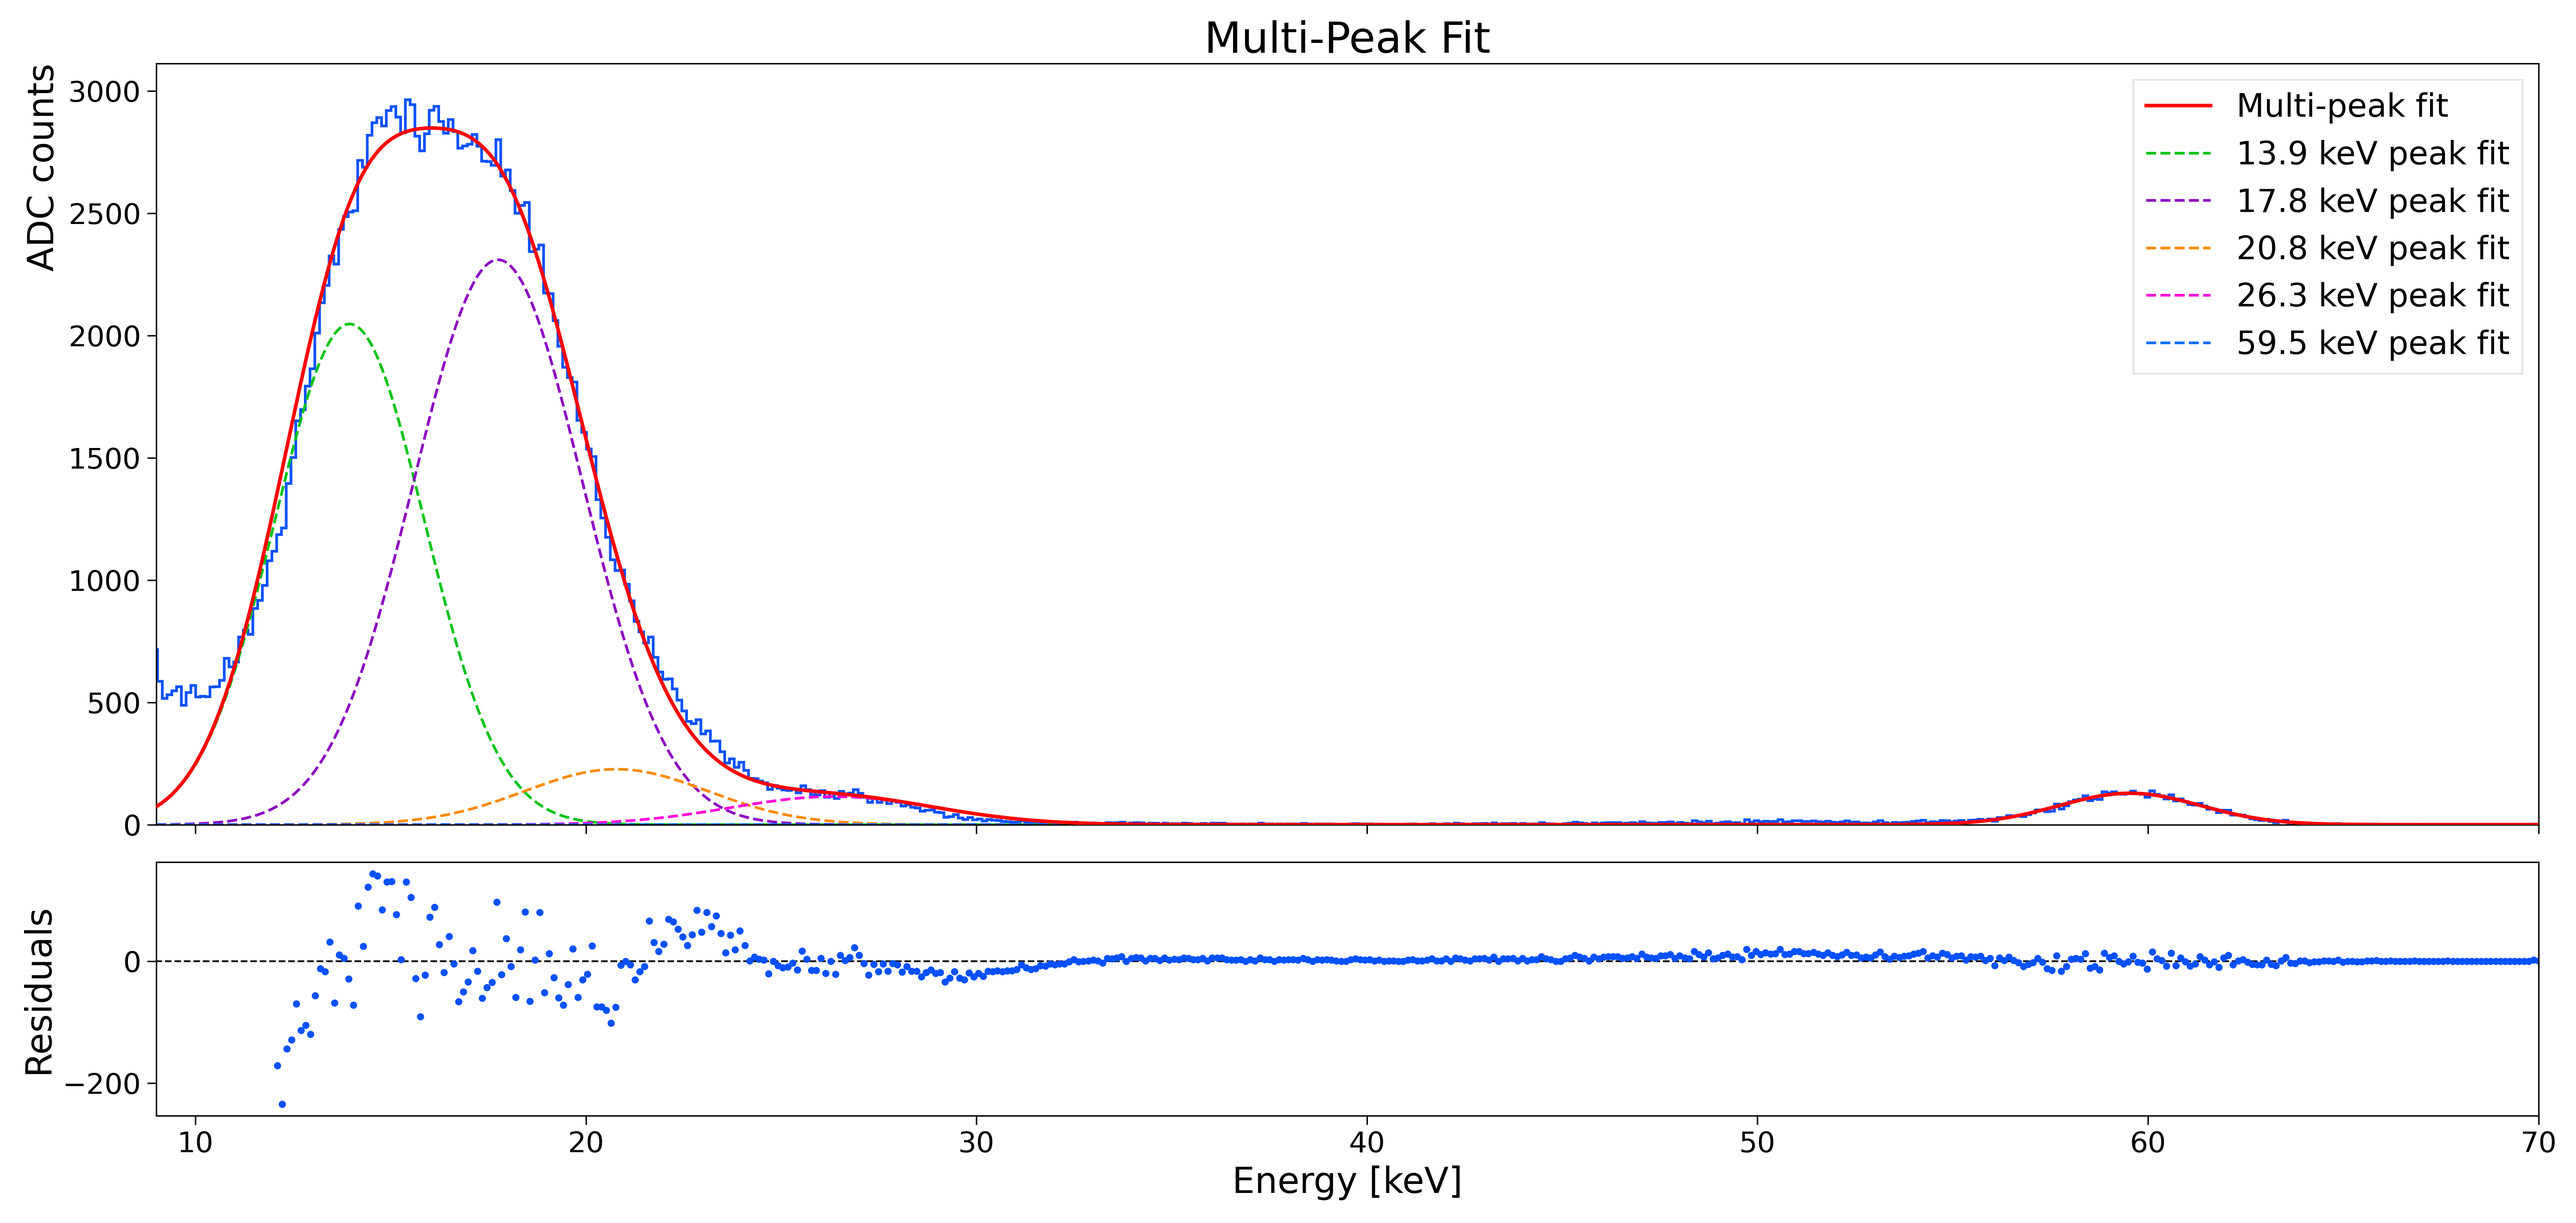
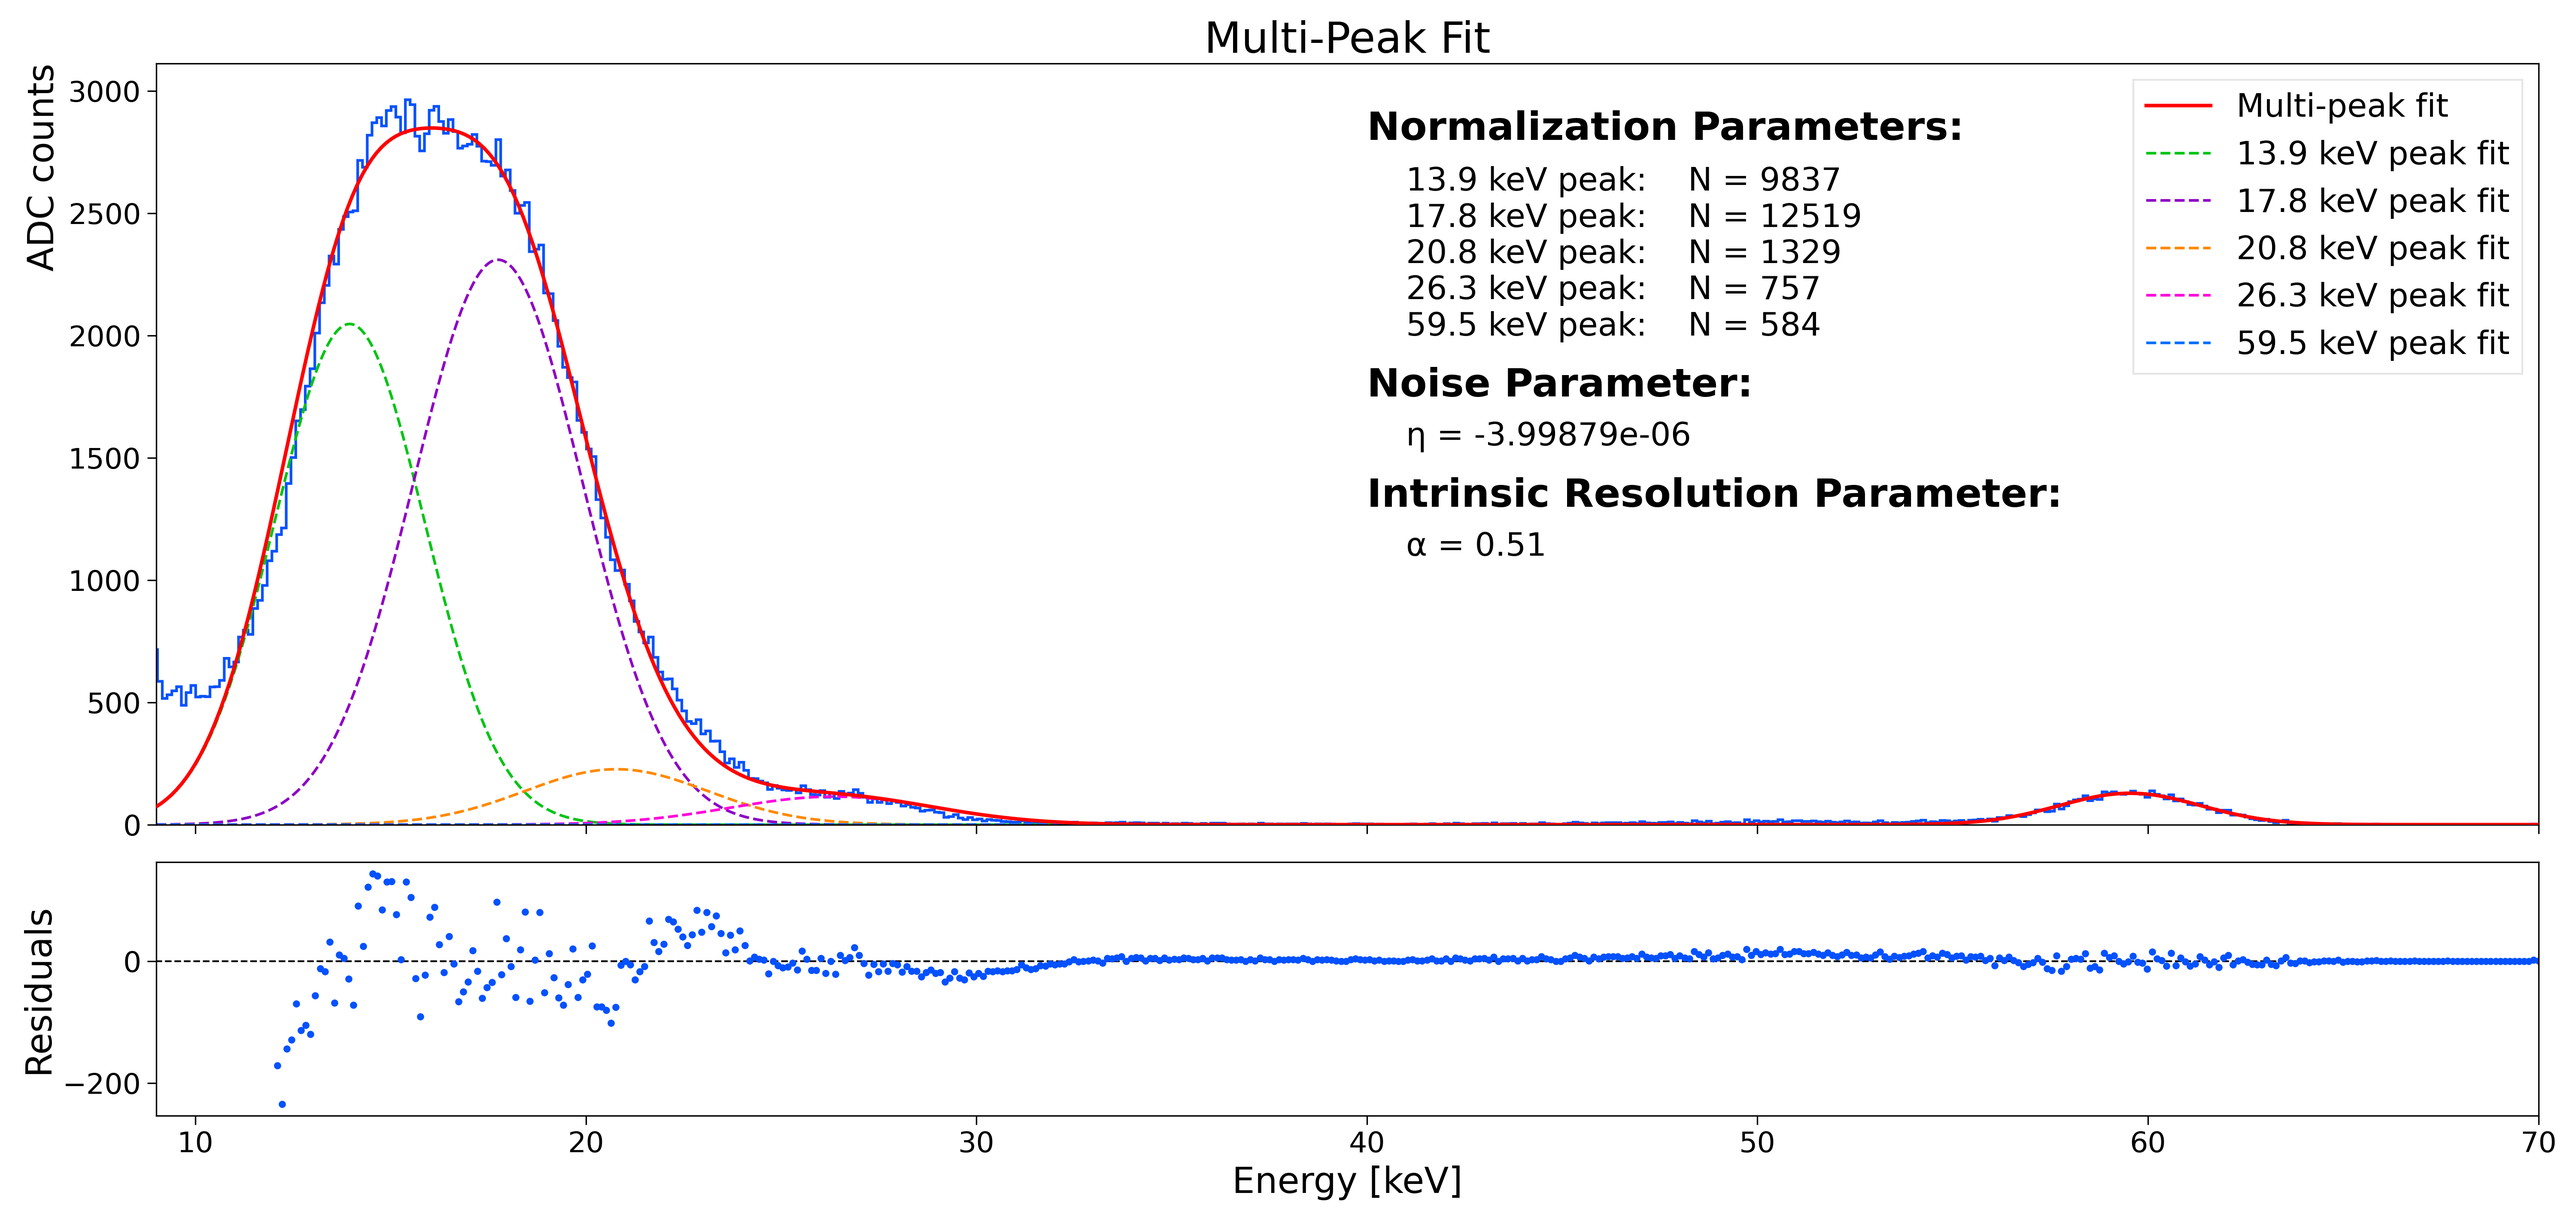
Updated multipeak plot

Changed region(s): [[0.5298, 0.0937, 0.8103, 0.4684]]

diff --git a/FOTODIODO/long_exposure/analysis.py b/FOTODIODO/long_exposure/analysis.py
@@ -106,8 +106,6 @@ def main():
 
     # fit 60 keV peak
     par60, cov60, N = peak_fitting(data,p60_xmin,p60_xmax)
-    # TODO: prima stima risoluzione energetica
-
 
     # ==== x calibration ====
 
@@ -218,6 +216,26 @@ def main():
     ax[0].set_xlim(left = 9, right = 70)
 
     ax[0].legend(prop = {'size': 18}, loc = 'best', ncol = 1, frameon = True, fancybox = False, framealpha = 0.5)
+
+
+    # text 
+    N1 = format(peaks[0], '1.1f') + ' keV peak:    N = ' + format(par[0], '1.0f') 
+    N2 = format(peaks[1], '1.1f') + ' keV peak:    N = ' + format(par[1], '1.0f') 
+    N3 = format(peaks[2], '1.1f') + ' keV peak:    N = ' + format(par[2], '1.0f') 
+    N4 = format(peaks[3], '1.1f') + ' keV peak:    N = ' + format(par[3], '1.0f') 
+    N5 = format(peaks[4], '1.1f') + ' keV peak:    N = ' + format(par[4], '1.0f') 
+    noise = '\u03B7 = ' + format(par[len(peaks)], '1.6')
+    res = '\u03B1 = ' + format(par[len(peaks)+1], '1.2f')
+
+    ax[0].text(40, 2800, 'Normalization Parameters: ', fontsize = 22, fontweight = 'bold', transform=ax[0].transData)
+    ax[0].text(41, 2000, N1 + '\n' + N2 + '\n' + N3 + '\n' + N4 + '\n' + N5, fontsize = 18, color = '#000000', transform = ax[0].transData)
+    
+    ax[0].text(40, 1750, 'Noise Parameter: ', fontsize = 22, fontweight = 'bold', transform=ax[0].transData)
+    ax[0].text(41, 1550, noise, fontsize = 18, color = '#000000', transform = ax[0].transData)
+    
+    ax[0].text(40, 1300, 'Intrinsic Resolution Parameter: ', fontsize = 22, fontweight = 'bold', transform=ax[0].transData)
+    ax[0].text(41, 1100, res, fontsize = 18, color = '#000000', transform = ax[0].transData)
+
 
     fig.tight_layout()
     # fig.savefig('../Plots/multifit.png', dpi = 300, facecolor = 'white')
